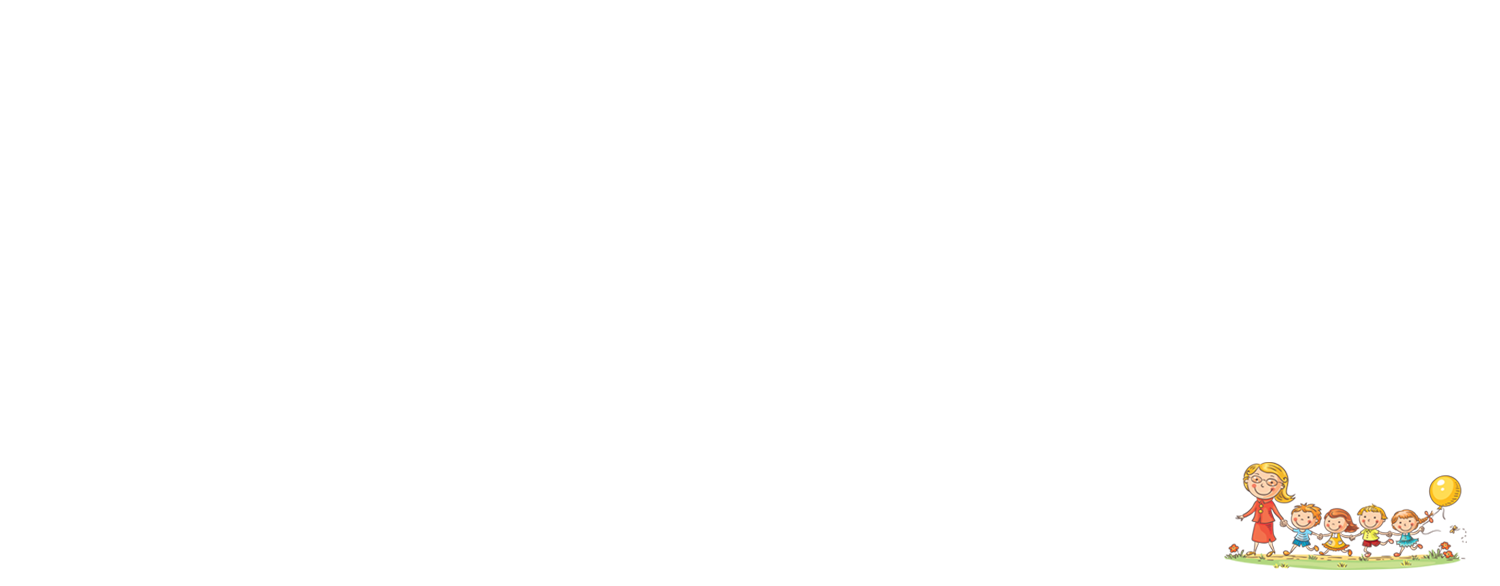
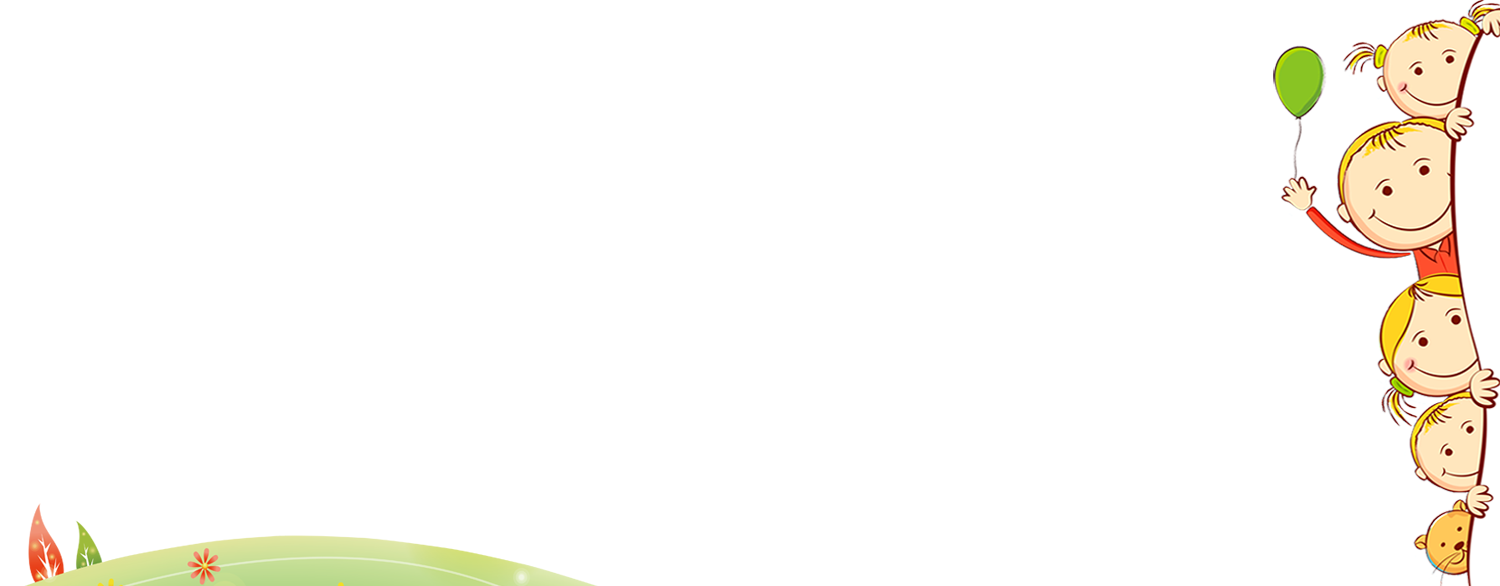
ajuste contenedores

Changed region(s): [[0.7973, 0.0, 1.0, 1.0], [0.0, 0.8601, 0.3987, 1.0]]

diff --git a/css/style.css b/css/style.css
@@ -11149,48 +11149,56 @@ body {
   text-transform: capitalize;
 }
 
-.contenedor__global, .contenedor__nosotros {
+.contenedor__global, .contenedor__cuidado, .contenedor__nosotros {
   display: flex;
   justify-content: space-evenly;
   height: 80.7vh;
-  padding: 4rem 2rem 3rem 2rem;
+  padding: 4rem 4rem 3rem 4rem;
   background-color: orange;
 }
-.contenedor__global .texto__global, .contenedor__nosotros .texto__global {
+.contenedor__global .texto__global, .contenedor__cuidado .texto__global, .contenedor__nosotros .texto__global {
   text-align: left;
   line-height: 3;
   color: white;
-  width: 30rem;
+  width: 25rem;
 }
-.contenedor__global .carousel__global, .contenedor__nosotros .carousel__global {
+.contenedor__global .carousel__global, .contenedor__cuidado .carousel__global, .contenedor__nosotros .carousel__global {
   width: 30%;
   height: 30%;
 }
 
 .contenedor__nosotros {
   background-image: url(../img/fondonosotros.png);
+  background-size: cover;
+  background-position: center;
+}
+
+.contenedor__cuidado {
+  background-image: url(../img/fondocuidado.png);
+  background-size: cover;
+  background-position: center;
 }
 
 .carousel__global--nosotros {
-  width: 40%;
-  height: 40%;
+  width: 36%;
+  height: 36%;
 }
 
 @media only screen and (max-width: 1080px) {
-  .contenedor__global, .contenedor__nosotros {
+  .contenedor__global, .contenedor__nosotros, .contenedor__cuidado {
     flex-wrap: wrap;
     justify-content: space-around;
     align-items: center;
     padding-bottom: 8rem;
     height: 70rem;
   }
-  .contenedor__global .carousel__global, .contenedor__nosotros .carousel__global {
+  .contenedor__global .carousel__global, .contenedor__nosotros .carousel__global, .contenedor__cuidado .carousel__global {
     width: 25rem;
   }
-  .contenedor__global .texto__global, .contenedor__nosotros .texto__global {
+  .contenedor__global .texto__global, .contenedor__nosotros .texto__global, .contenedor__cuidado .texto__global {
     line-height: 2;
   }
-  .contenedor__global .texto__global h3, .contenedor__nosotros .texto__global h3 {
+  .contenedor__global .texto__global h3, .contenedor__nosotros .texto__global h3, .contenedor__cuidado .texto__global h3 {
     width: 15rem;
   }
 
@@ -11199,23 +11207,23 @@ body {
   }
 }
 @media only screen and (max-width: 800px) {
-  .contenedor__global, .contenedor__nosotros {
+  .contenedor__global, .contenedor__nosotros, .contenedor__cuidado {
     flex-direction: column;
     justify-content: space-between;
     align-items: center;
     padding: 1rem 1rem 1rem 1rem;
     height: auto;
   }
-  .contenedor__global .carousel__global, .contenedor__nosotros .carousel__global {
+  .contenedor__global .carousel__global, .contenedor__nosotros .carousel__global, .contenedor__cuidado .carousel__global {
     width: 20rem;
     height: auto;
     margin-top: 2rem;
   }
-  .contenedor__global .texto__global, .contenedor__nosotros .texto__global {
+  .contenedor__global .texto__global, .contenedor__nosotros .texto__global, .contenedor__cuidado .texto__global {
     line-height: 2;
     width: 20rem;
   }
-  .contenedor__global .texto__global h3, .contenedor__nosotros .texto__global h3 {
+  .contenedor__global .texto__global h3, .contenedor__nosotros .texto__global h3, .contenedor__cuidado .texto__global h3 {
     width: 10rem;
   }
 

diff --git a/scss/_globals.scss b/scss/_globals.scss
@@ -34,14 +34,14 @@ body {
   display: flex;
   justify-content: space-evenly;
   height: 80.7vh;
-  padding: 4rem 2rem 3rem 2rem;
+  padding: 4rem 4rem 3rem 4rem;
   background-color: orange;
 
   .texto__global {
     text-align: left;
     line-height: 3;
     color: white;
-    width: 30rem;
+    width: 25rem;
   }
 
   .carousel__global {
@@ -53,11 +53,20 @@ body {
 .contenedor__nosotros {
   @extend .contenedor__global;
   background-image: url(../img/fondonosotros.png);
+  background-size: cover;
+  background-position: center;
+}
+
+.contenedor__cuidado {
+  @extend .contenedor__global;
+  background-image: url(../img/fondocuidado.png);
+  background-size: cover;
+  background-position: center;
 }
 
 .carousel__global--nosotros {
-  width: 40%;
-  height: 40%;
+  width: 36%;
+  height: 36%;
 }
 @media only screen and (max-width: 1080px) {
   .contenedor__global {

diff --git a/cuidado/index.html b/cuidado/index.html
@@ -57,7 +57,7 @@
       <a href=""><img src="../img/face.png" /></a>
       <a href=""><img src="../img/insta.png" /></a>
     </nav>
-    <main class="contenedor__global">
+    <main class="contenedor__cuidado">
       <article class="texto__global">
         <h3>Nosotros nos cuidamos</h3>
         Lorem ipsum dolor sit amet, consectetur adipisicing elit. Quisquam ipsam
